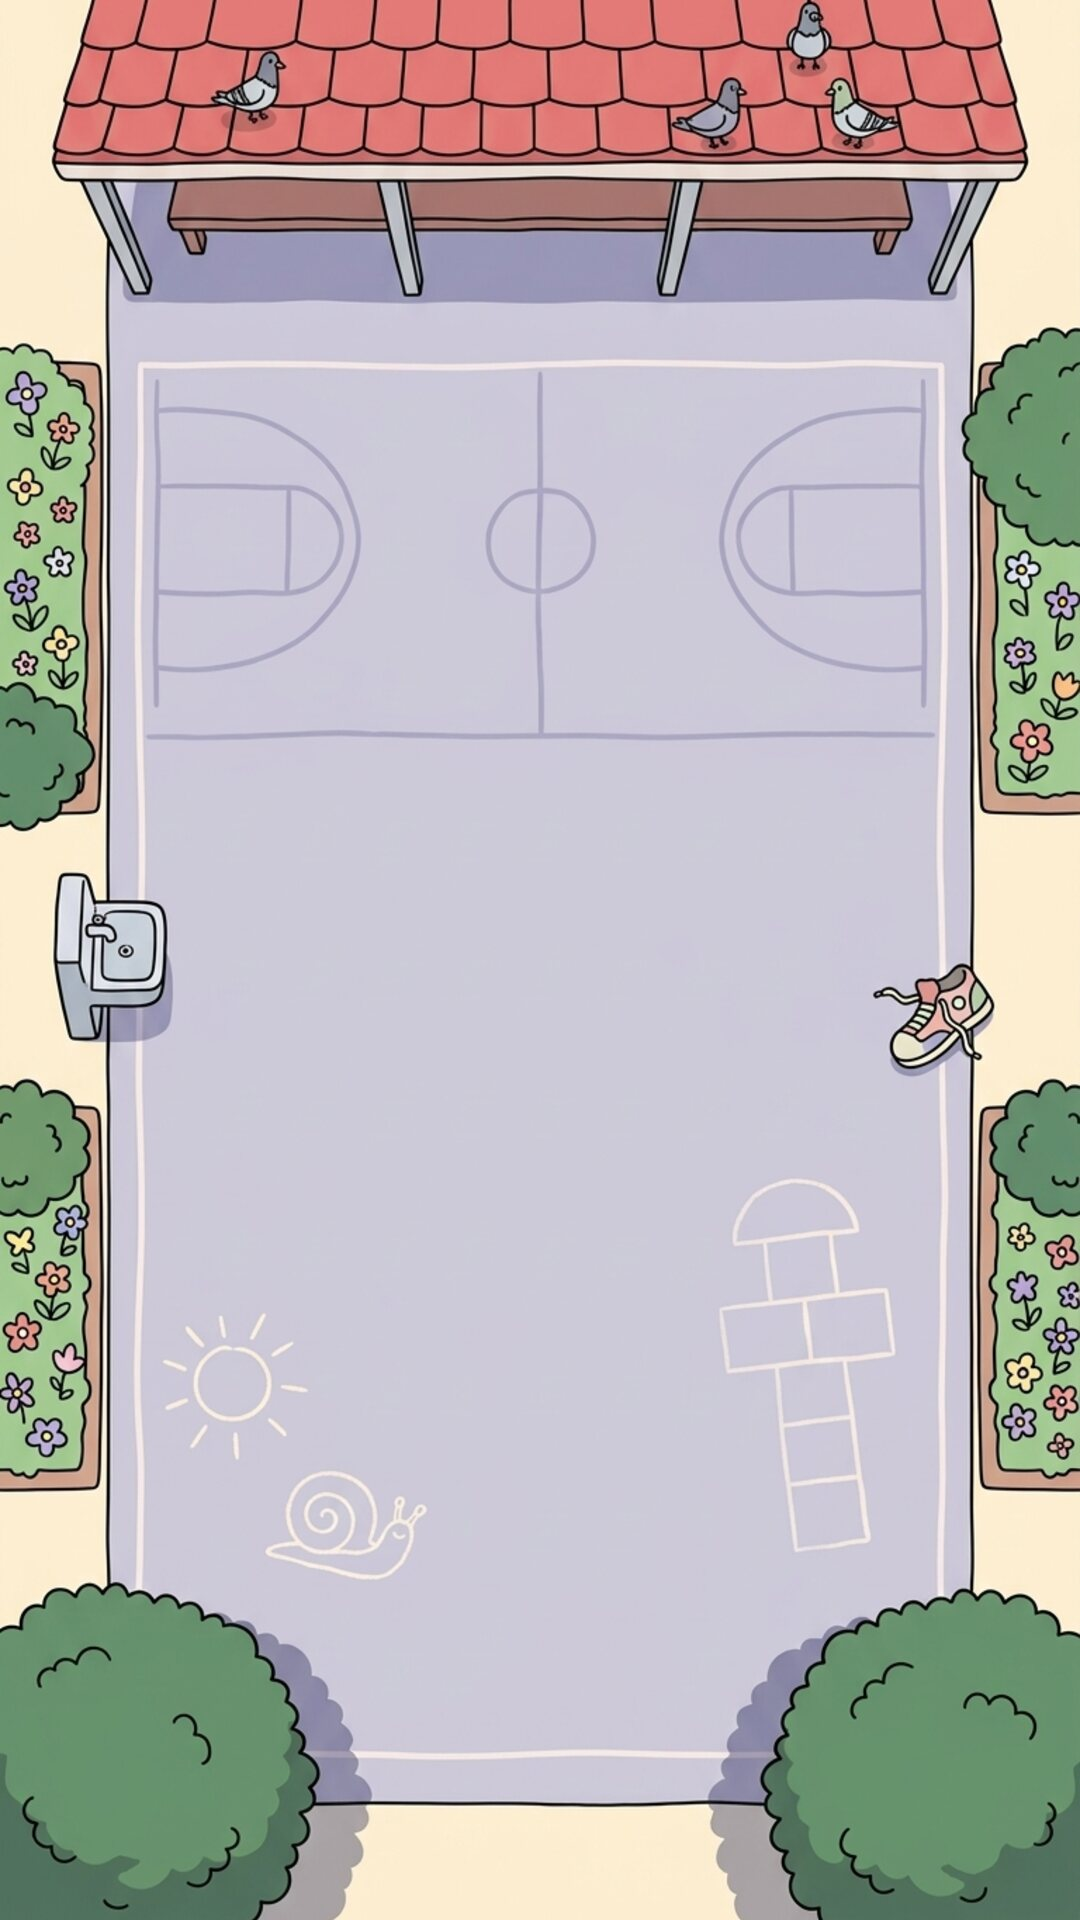
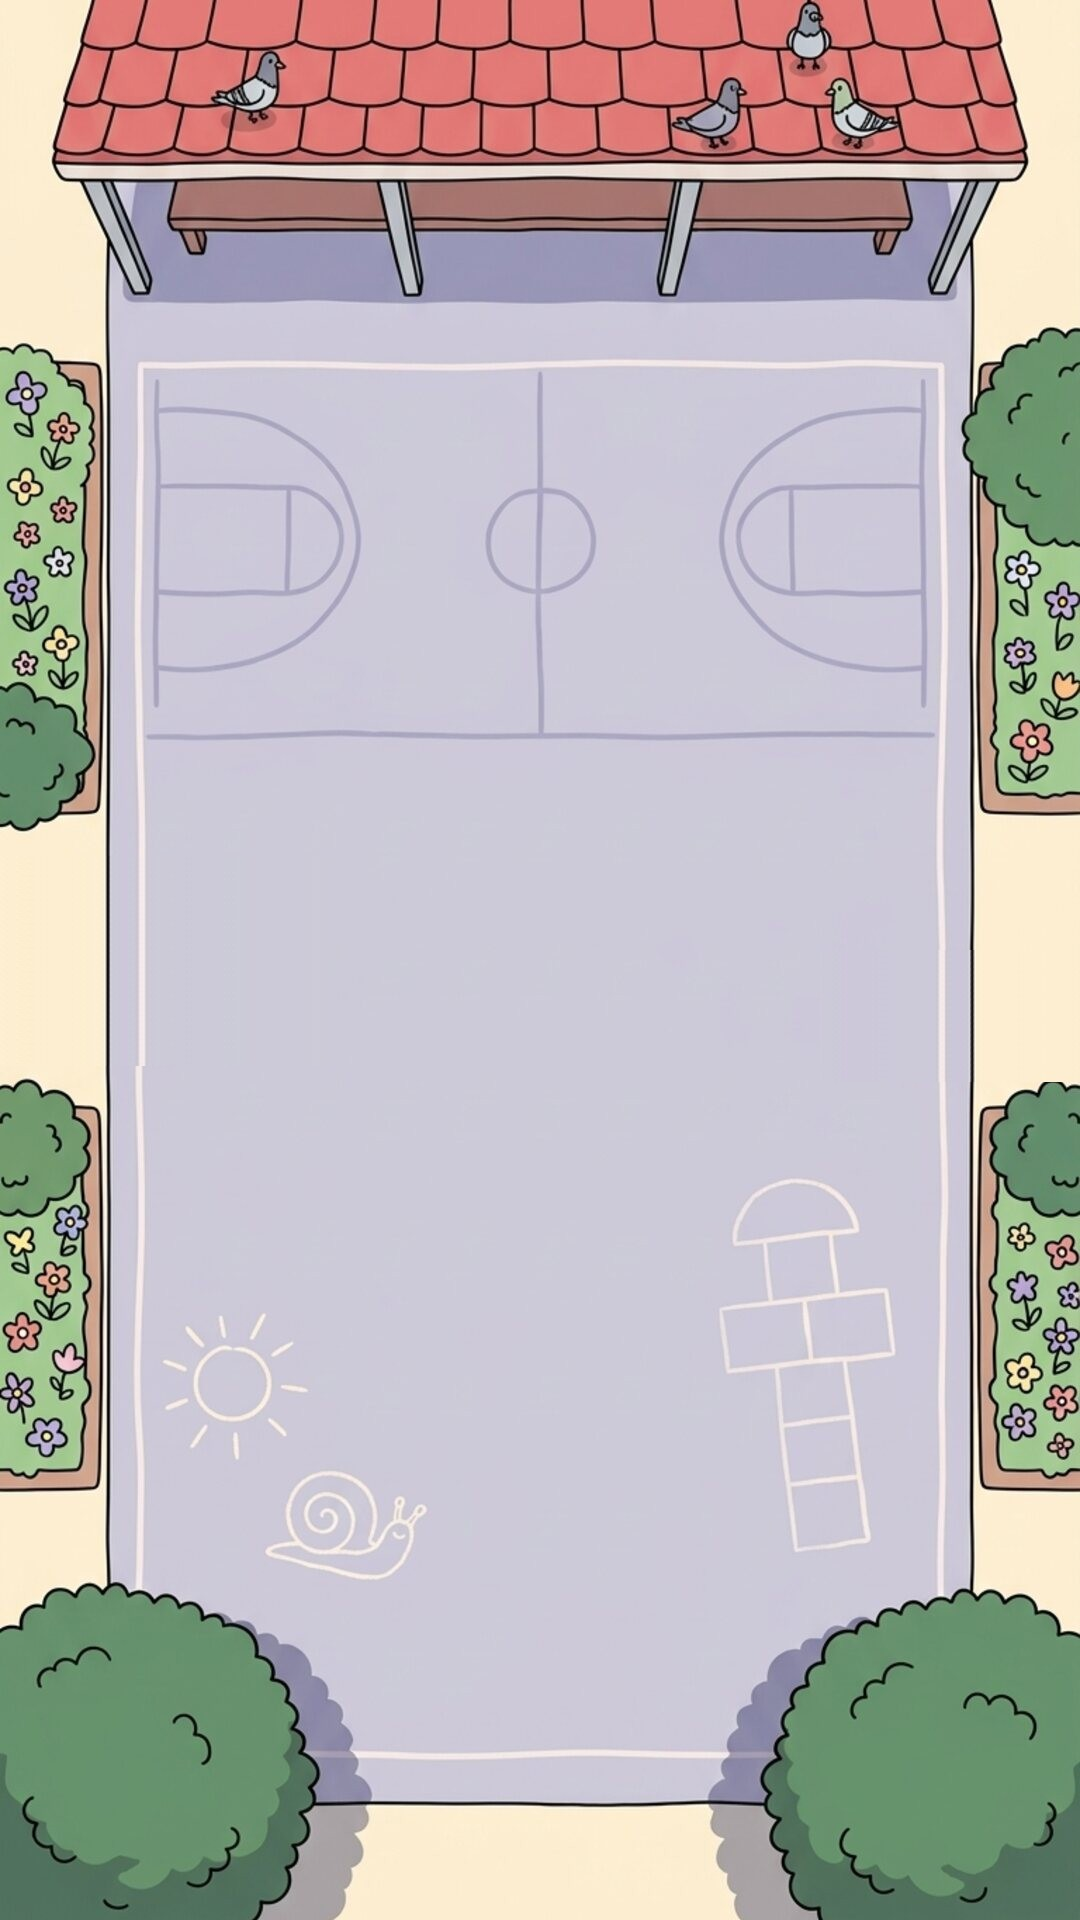
Plateau descendu, évier et basket retirés du décor (DF.19)
Claude-Session: https://claude.ai/code/session_01QntoMPpHPuQ7LB9yJUjTqQ

Changed region(s): [[0.0306, 0.4375, 0.1833, 0.5625], [0.825, 0.5, 0.9167, 0.5625]]

diff --git a/src/game/scenes/PartieScene.ts b/src/game/scenes/PartieScene.ts
@@ -71,7 +71,7 @@ const TAILLE_BADGE = 70;
 /** Pastille d'un élève posé sur un îlot : un peu plus grande que l'îlot, la tête dépasse. */
 const DIAMETRE_PASTILLE = 92;
 const RAYON_DEPOT = 75;
-const Y_ACTIONS = 1052 + DESCENTE;
+const Y_ACTIONS = 1064 + DESCENTE;
 /** Temps laissé pour voir un coup avant de passer le téléphone (ms). */
 const DUREE_FIN_DE_TOUR = 900;
 /** Annonce d'une arrivée : l'élève se ramasse en l'air avant de tomber (ms). */
@@ -511,8 +511,8 @@ export class PartieScene extends Phaser.Scene {
     const p = this.pos(id);
     const piece = bande === 'rouge' ? PLATEAU.cabaneRouge : PLATEAU.cabaneBleue;
     if (this.textures.exists(piece)) {
-      const im = this.add.image(p.x, p.y - 12, piece);
-      im.setScale(150 / 512);
+      const im = this.add.image(p.x, p.y - 8, piece);
+      im.setScale(136 / 512);
       this.ajouter(im);
       // Badge de forme de la bande (rond ou carré), lisible sans les couleurs.
       const g = this.ajouter(this.add.graphics());
@@ -520,8 +520,8 @@ export class PartieScene extends Phaser.Scene {
       forme(
         g,
         bande === 'rouge'
-          ? contourRond(p.x + 44, p.y + 26, 12, graine + 2)
-          : contourRect(p.x + 32, p.y + 14, 24, 24, 3, graine + 2, 0.5),
+          ? contourRond(p.x + 40, p.y + 26, 12, graine + 2)
+          : contourRect(p.x + 28, p.y + 14, 24, 24, 3, graine + 2, 0.5),
         { remplissage: bande === 'rouge' ? COULEURS.rouge : COULEURS.bleu, trait: 3 },
       );
       return;

diff --git a/src/game/disposition.ts b/src/game/disposition.ts
@@ -12,10 +12,11 @@ export const MONTEE = Math.round(HAUT * 0.55);
 /** Zone de l'écran (en pixels de la résolution de base) où l'on dessine la cour. */
 export const ZONE_COUR = {
   x: 40,
-  y: 100 + MONTEE,
+  // Descendue de 40 px (DF.19) : la cabane du haut ne passe plus sous le bandeau.
+  y: 140 + MONTEE,
   largeur: LARGEUR - 80,
   // La cour descend jusqu'au bouton d'appel : plus de feuille de cahier en bas (DF.14).
-  hauteur: 985 + DESCENTE - MONTEE,
+  hauteur: 955 + DESCENTE - MONTEE,
 } as const;
 
 export interface Point {

diff --git a/docs/decisions.md b/docs/decisions.md
@@ -121,3 +121,4 @@ Le prompt de Clément fait foi ; le document de conception sert de complément.
 ## Phase 2 de la v1 — Image et son
 
 - **DF.18 — Plateau illustré dans le style dodu (phase 2, demande de Clément : « décor de la cour et phase 2 de l'audit » ; inquiétude : « que ces nouveaux décors surchargent la map »).** Les îlots, l'îlot spécial, les deux cabanes, le portail et le bureau de la CPE sont maintenant des images générées dans le même trait que les élèves (planche Higgsfield en 3/4, job e0f020f3), découpées et posées dans `public/plateau/` (512×512, puissances de 2). La pancarte « OFFICE » de la porte de la CPE a été effacée. Une pastille rond/carré reste sur chaque cabane pour reconnaître la bande. Si une image manque, le dessin en code d'avant reprend sa place. Le décor du fond ne change pas : la version avec un local à vélos en bas chargeait la zone du rang et du bouton, elle est gardée de côté.
+- **DF.19 — Retouches du plateau illustré (remarques de Clément : « redescendre un peu l'ensemble pour ne pas couper la maison », « attention aux superpositions entre les îlots et l'évier et la basket »).** La cour descend de 40 px et se resserre d'autant (la cabane du haut ne passe plus sous le bandeau). Les cabanes sont un peu plus petites et le bouton d'appel descend de 12 px pour que la cabane du bas ne le touche plus. L'évier et la basket sont effacés du décor : ils tombaient sous les bancs quel que soit le format d'écran.
